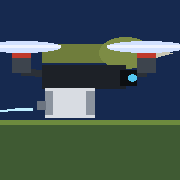
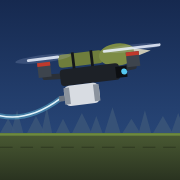
Add files via upload

diff --git a/sw.js b/sw.js
@@ -1,0 +1,68 @@
+// Service worker for Flappy FPV.
+//
+// A service worker is a small script the browser keeps running in the background for this site.
+// It sits between the page and the network, which lets it keep a copy of the game's files so the
+// game still opens when the phone has no signal.
+//
+// Strategy: NETWORK FIRST. Every request goes to GitHub first and the fresh copy is saved to the
+// cache; the cache is only used when the network fails (offline) or takes too long. That way you
+// always see the newest version after you push an update, and never get stuck on a stale one.
+
+const CACHE = 'flappy-fpv-v1';
+const ASSETS = [
+  './',
+  './index.html',
+  './manifest.webmanifest',
+  './icon.png',
+  './icon-192.png',
+  './icon-512.png',
+  './icon-maskable-512.png'
+];
+const NETWORK_TIMEOUT_MS = 4000;
+
+// install: runs once when the browser first sees this file (or a changed version of it).
+// Pre-caches everything the game needs so it works offline right away.
+self.addEventListener('install', event => {
+  event.waitUntil(
+    caches.open(CACHE).then(cache => cache.addAll(ASSETS)).then(() => self.skipWaiting())
+  );
+});
+
+// activate: clean up caches left behind by older versions (if CACHE above is ever renamed).
+self.addEventListener('activate', event => {
+  event.waitUntil(
+    caches.keys()
+      .then(keys => Promise.all(keys.filter(k => k !== CACHE).map(k => caches.delete(k))))
+      .then(() => self.clients.claim())
+  );
+});
+
+function fetchWithTimeout(request, ms) {
+  return new Promise((resolve, reject) => {
+    const timer = setTimeout(() => reject(new Error('network timeout')), ms);
+    fetch(request).then(res => { clearTimeout(timer); resolve(res); }, err => { clearTimeout(timer); reject(err); });
+  });
+}
+
+// fetch: runs for every file the page asks for.
+self.addEventListener('fetch', event => {
+  const req = event.request;
+  if (req.method !== 'GET' || new URL(req.url).origin !== self.location.origin) return;
+  event.respondWith((async () => {
+    const cache = await caches.open(CACHE);
+    try {
+      const fresh = await fetchWithTimeout(req, NETWORK_TIMEOUT_MS);
+      if (fresh && fresh.ok) cache.put(req, fresh.clone());
+      return fresh;
+    } catch (err) {
+      const cached = await cache.match(req, { ignoreSearch: true });
+      if (cached) return cached;
+      // Opening the game itself while offline: hand back the cached page.
+      if (req.mode === 'navigate') {
+        const page = await cache.match('./index.html');
+        if (page) return page;
+      }
+      throw err;
+    }
+  })());
+});

diff --git a/index.html b/index.html
@@ -8,6 +8,8 @@
 <meta property="og:title" content="Flappy FPV">
 <meta property="og:description" content="Fiber-optic one-way attack drone. Thread the nets. Tap to flap.">
 <meta property="og:type" content="website">
+<meta property="og:url" content="https://fl0ridaman.github.io/flappy-FPV/">
+<meta property="og:image" content="https://fl0ridaman.github.io/flappy-FPV/icon-512.png">
 <meta name="theme-color" content="#0a0c10">
 <meta name="apple-mobile-web-app-capable" content="yes">
 <meta name="mobile-web-app-capable" content="yes">

diff --git a/README.md b/README.md
@@ -1,0 +1,36 @@
+# Flappy FPV
+
+A Flappy Bird–style browser game where you fly a fiber-optic one-way attack drone through a course of anti-drone nets. Tap to flap, thread the gaps, don't snag the fiber.
+
+**Play it:** https://fl0ridaman.github.io/flappy-FPV/
+
+Works in any modern browser. On a phone, add it to your home screen and it runs full-screen like an app, and it keeps working with no signal once it has loaded once.
+
+## How to play
+
+- **Phone:** tap the screen to flap.
+- **Desktop:** `space` (or click) to flap, `p` to pause, `m` to toggle sound.
+- Every net you clear is a point. The course speeds up and the gaps tighten as you go.
+- Your best score is saved on the device.
+
+## Add it to your home screen
+
+- **iPhone:** open the link in Safari → tap the Share button → **Add to Home Screen**.
+- **Android:** open the link in Chrome → tap the ⋮ menu → **Add to Home screen** (or **Install app**).
+
+## What's in this repo
+
+| File | What it does |
+| --- | --- |
+| `index.html` | The whole game: page, styles, and all the JavaScript in one file. |
+| `manifest.webmanifest` | Tells phones how to install the game as an app (name, icon, full-screen, portrait). |
+| `sw.js` | Service worker: keeps a cached copy of the files so the game opens offline. |
+| `icon.png` | 180×180 icon iPhones use for the home screen. |
+| `icon-192.png`, `icon-512.png` | Icons Android uses. |
+| `icon-maskable-512.png` | Android "maskable" icon, with padding so it can be cropped to a circle. |
+
+## Making changes
+
+Edit `index.html`, commit, and push. GitHub Pages republishes automatically, usually within a minute or two. GitHub also tells browsers they may keep a copy for up to 10 minutes, so if your phone still shows the old version, wait a bit and reload (on a home-screen install, close it fully and reopen).
+
+The game is plain HTML, CSS, and JavaScript with no build step and no dependencies, so you can also just open `index.html` straight from your computer to try changes before pushing.
